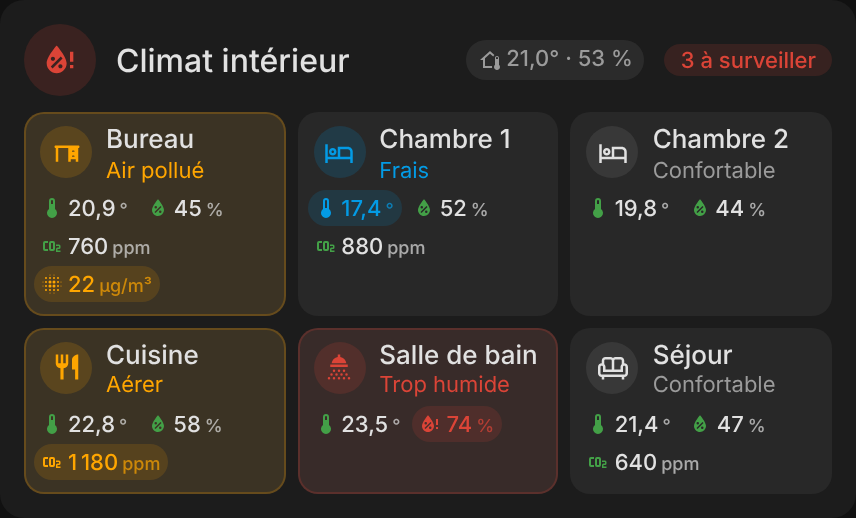
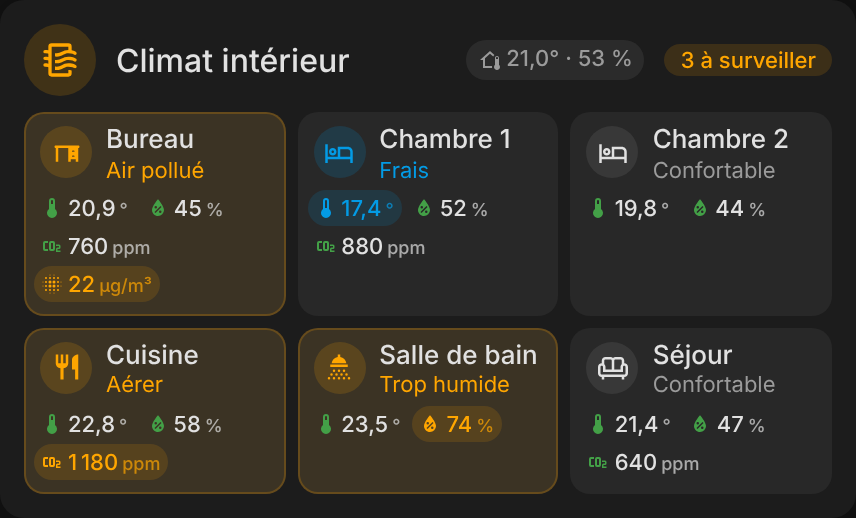
Wet rooms tolerate more humidity; per-room thresholds (1.9.1) (#11)
## Summary

- **Fix**: the bathroom showed *Too humid* at 61 % in the Environment
overview. Wet rooms — bathroom, shower room, laundry, found from the
room name (*Salle de bain*, *Salle d'eau*, *Douche*, *Buanderie*,
*Bathroom*, *Shower*, *Laundry*) — now use humidity thresholds `[25, 35,
70, 80]` instead of `[25, 35, 60, 70]`. Applies to the room card, the
mini card and the overview; the user's own `humidity` thresholds always
win.
- **New**: `thresholds` per room in the overview's `rooms` list, merged
over the card's `thresholds` and passed to the unfolded room card.

```yaml
type: custom:room-environment-overview-card
rooms:
  - area: cellar
    thresholds:
      humidity: [30, 40, 75, 85]
```

Version **1.9.1**, CHANGELOG and README updated, overview screenshots
re-rendered (bathroom at 74 % is now a warning, not an alert).

## Test plan

- [x] `npm run check`
- [x] `node --test` — 46 pass (2 new: wet-room humidity on overview and
room card, per-room thresholds)
- [x] Biome CI, jscpd: 0 clones
- [ ] Check the bathroom in HA after the update

---
_Generated by [Claude
Code](https://claude.ai/code/session_01RpNAWf1pCHs9TdUJJdCv4w)_

diff --git a/src/room-environment-card.js b/src/room-environment-card.js
@@ -160,6 +160,14 @@ const reKindOf = (st) => RE_DC[st?.attributes.device_class];
 const reMatch = (hass, id) =>
   id.startsWith("sensor.") && !hass.entities?.[id]?.entity_category && !!reKindOf(hass.states[id]);
 
+// Wet rooms (bathroom, shower room, laundry) live with more humidity: 70 % is a warning there, 80 % an alert.
+const RE_WET_ROOM = /salle (de )?bains?|salle d.eau|douche|bath|shower|buanderie|laundry/i;
+const RE_WET_HUMIDITY = [25, 35, 70, 80];
+
+// Thresholds of `kind` for a room: the room's own, then the card's, then the wet-room humidity, then the defaults.
+const reCustom = (kind, room) =>
+  room.thresholds?.[kind] ?? (kind === "humidity" && RE_WET_ROOM.test(room.name || "") ? RE_WET_HUMIDITY : undefined);
+
 // Thresholds and gauge of `kind` in the sensor's unit: °F and parts per billion are converted, custom thresholds
 // (`thresholds: { co2: [800, 1200] }`, two values for a one-sided kind, four otherwise) are used as they are.
 const reScale = (kind, unit, custom) => {
@@ -221,7 +229,7 @@ class RoomEnvironmentCard extends RcCard {
   // One reading per kind: the mean of the sensors of that kind that report a number, unavailable and unknown ones
   // ignored (a kind with none left is not shown). A single sensor keeps Home Assistant's formatting and its
   // `name` / `icon` overrides; a mean is formatted with the kind's precision.
-  _reading(kind, members) {
+  _reading(kind, members, room) {
     const k = RE_KINDS[kind];
     const values = members.map((m) => Number.parseFloat(m.st.state));
     const value = values.reduce((t, v) => t + v, 0) / values.length;
@@ -245,7 +253,7 @@ class RoomEnvironmentCard extends RcCard {
       gauge = k.gauge;
       item.light = band > 0;
     } else {
-      const sc = reScale(kind, unit, this._config.thresholds?.[kind]);
+      const sc = reScale(kind, unit, reCustom(kind, room));
       band = reBand(value, sc.scale);
       gauge = sc.gauge;
       item.sev = (k.sev ?? RE_SEV)[band];
@@ -265,18 +273,19 @@ class RoomEnvironmentCard extends RcCard {
   }
 
   _collect() {
-    return this._itemsOf(this._entries());
+    return this._itemsOf(this._entries(), { name: this._areaName(), thresholds: this._config.thresholds });
   }
 
   // The readings of `entries`, one per kind, in kind order; also used by the overview, room by room.
-  _itemsOf(entries) {
+  // `room`: { name, thresholds } of the room, for its comfort limits.
+  _itemsOf(entries, room) {
     const byKind = {};
     for (const e of entries) {
       const st = this._hass.states[e.entity];
       const kind = reKindOf(st);
       if (kind && !rcUnavailable(st) && Number.isFinite(Number.parseFloat(st.state))) (byKind[kind] ||= []).push({ e, st });
     }
-    return RE_ORDER.filter((kind) => byKind[kind]).map((kind) => this._reading(kind, byKind[kind]));
+    return RE_ORDER.filter((kind) => byKind[kind]).map((kind) => this._reading(kind, byKind[kind], room));
   }
 
   // Number in full, unit small and muted ("°" for a temperature) to keep the chips short.
@@ -587,9 +596,10 @@ class RoomEnvironmentOverviewCard extends RoomEnvironmentCard {
     for (const [aid, ids] of Object.entries(byArea)) {
       const area = h.areas?.[aid];
       const entries = ids.filter((id) => h.states[id] && reMatch(h, id)).map((entity) => ({ entity }));
-      const items = area && !excluded.has(aid) ? this._itemsOf(entries) : [];
-      if (!items.length) continue;
       const o = overrides[aid] || {};
+      const thresholds = this._roomThresholds(o);
+      const items = area && !excluded.has(aid) ? this._itemsOf(entries, { name: area.name, thresholds }) : [];
+      if (!items.length) continue;
       const worst = this._worst(items);
       rooms.push({
         id: aid,
@@ -698,6 +708,12 @@ class RoomEnvironmentOverviewCard extends RoomEnvironmentCard {
     this._detail = null;
   }
 
+  // The card's `thresholds` with the room's own (`rooms: [{ area, thresholds }]`) on top.
+  _roomThresholds(override) {
+    const t = { ...this._config.thresholds, ...override?.thresholds };
+    return Object.keys(t).length ? t : undefined;
+  }
+
   // The Environment card of the open room, built once per room.
   _fillPanel() {
     const panel = this.shadowRoot.querySelector(".panel");
@@ -705,13 +721,14 @@ class RoomEnvironmentOverviewCard extends RoomEnvironmentCard {
     if (this._panelArea === this._openArea) return;
     this._panelArea = this._openArea;
     const c = this._config;
+    const thresholds = this._roomThresholds((c.rooms || []).find((x) => x.area === this._openArea));
     const el = document.createElement(RoomEnvironmentCard.tag);
     el.setConfig({
       type: `custom:${RoomEnvironmentCard.tag}`,
       area: this._openArea,
       title: this._t("readings"),
       exclude: c.exclude || [],
-      ...(c.thresholds ? { thresholds: c.thresholds } : {}),
+      ...(thresholds ? { thresholds } : {}),
       ...(c.language ? { language: c.language } : {}),
     });
     el.hass = this._hass;

diff --git a/CHANGELOG.md b/CHANGELOG.md
@@ -1,5 +1,13 @@
 # Changelog
 
+## 1.9.1
+
+### Fixes
+- Environment cards: a bathroom, shower room or laundry (found from the room name) no longer shows *Too humid* at 61 %: humidity there is a warning from 70 % and an alert from 80 % (`[25, 35, 70, 80]`), unless you set your own `humidity` thresholds.
+
+### What's new
+- Environment overview: `thresholds` per room in `rooms` (`- area: cellar` / `thresholds: { humidity: [30, 40, 75, 85] }`), on top of the card's; the unfolded room uses them too.
+
 ## 1.9.0
 
 ### What's new
